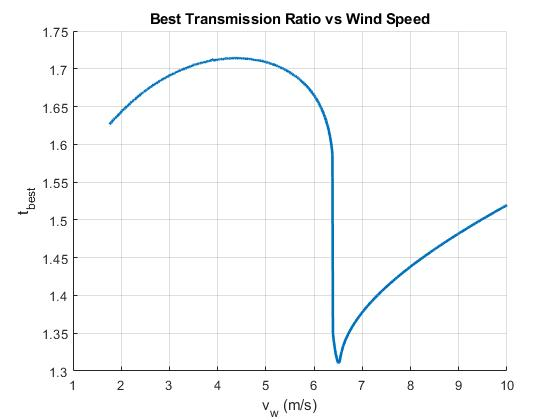
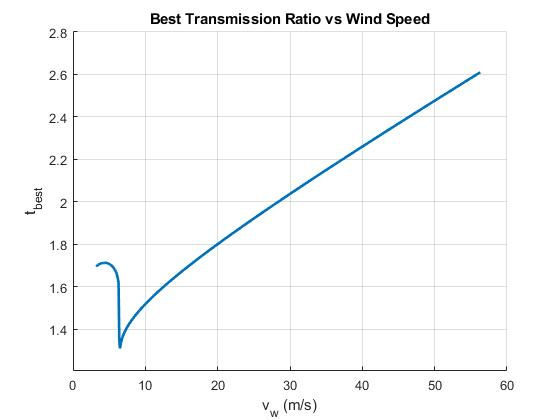
Wider Wind Range

diff --git a/Main.m b/Main.m
@@ -23,7 +23,7 @@ fprintf(fileID, fan.RootMeanSquare());
 % [v_min, v_max] = vehicle.SpeedBoundary();
 % fprintf(fileID, 't=%.2f v_top=%.1fm/s B=[%.1f, %.1f]m/s\n', t_top, v_top, v_min, v_max);
 
-SearchWindSpeeds(fan, 1:0.01:10, 1.71, 1.71);
+SearchWindSpeeds(fan, 1:0.1:100, 1, 5);
 
 toc();
 
